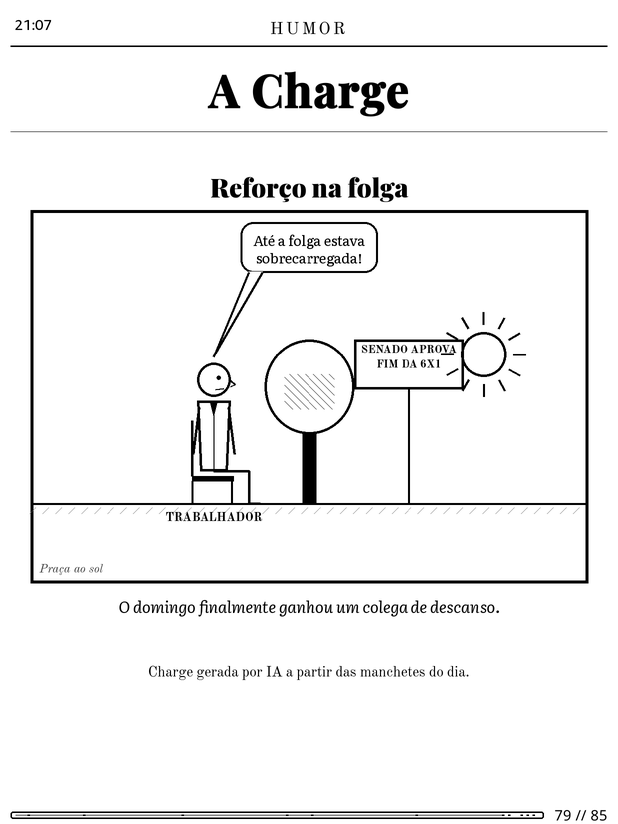
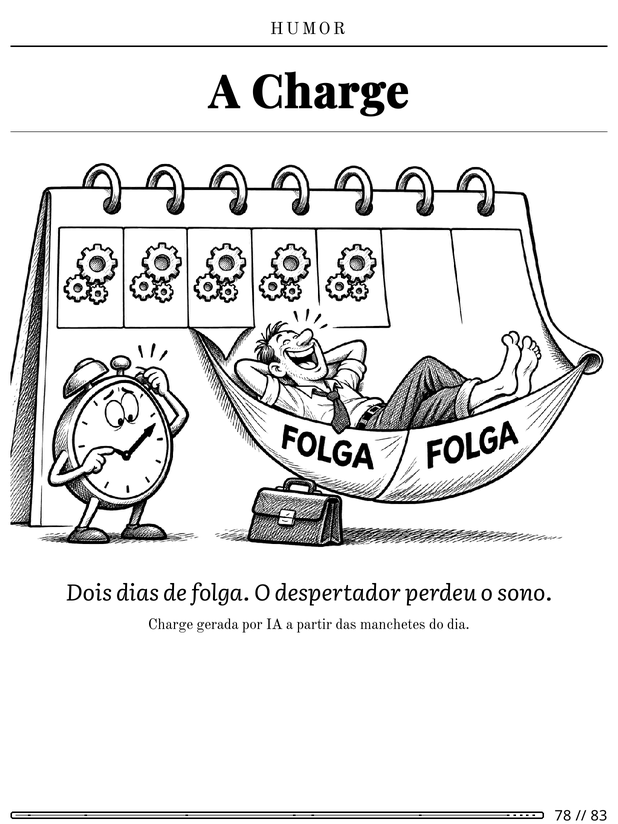
feat(charge): illustrated cartoons through an image capable CLI (Codex) or image API, redo cartoon per edition

Changed region(s): [[0.0, 0.182, 0.9838, 0.8192], [0.8916, 0.9709, 0.9223, 1.0]]

diff --git a/frontend/src/pages/AI.tsx b/frontend/src/pages/AI.tsx
@@ -4,7 +4,7 @@ import { Empty, Field, Loading, Modal, SectionTitle, Stamp, useAction, useLoad }
 
 const PRESETS: Record<string, Partial<AIProvider> & { label: string }> = {
   claude_cli: { label: "Claude Code (CLI)", name: "Claude CLI", kind: "cli", command: "claude -p --model claude-haiku-5-5 --output-format text" },
-  codex_cli: { label: "Codex (CLI)", name: "Codex CLI", kind: "cli", command: "codex exec --skip-git-repo-check -s read-only --ephemeral -C /tmp -" },
+  codex_cli: { label: "Codex (CLI)", name: "Codex CLI", kind: "cli", command: "codex exec --skip-git-repo-check -s read-only --ephemeral -C /tmp -", image_command: "codex exec --skip-git-repo-check -s workspace-write --ephemeral -" },
   anthropic: { label: "Anthropic API", name: "Anthropic", kind: "anthropic", model: "claude-haiku-5-5" },
   openai: { label: "OpenAI API", name: "OpenAI", kind: "openai", base_url: "https://api.openai.com/v1", model: "gpt-5-mini", image_model: "gpt-image-1" },
   ollama: { label: "Ollama (local)", name: "Ollama", kind: "openai", base_url: "http://localhost:11434/v1", model: "llama3.2" },
@@ -14,14 +14,14 @@ const PRESETS: Record<string, Partial<AIProvider> & { label: string }> = {
 function AIForm({ initial, onSubmit }: { initial?: Partial<AIProvider>; onSubmit: (b: Record<string, unknown>) => void }) {
   const [f, setF] = useState({
     name: initial?.name ?? "", kind: initial?.kind ?? "cli", base_url: initial?.base_url ?? "", model: initial?.model ?? "",
-    api_key: "", command: initial?.command ?? "", image_model: initial?.image_model ?? "",
+    api_key: "", command: initial?.command ?? "", image_model: initial?.image_model ?? "", image_command: initial?.image_command ?? "",
     max_tokens: initial?.max_tokens ?? 1500, timeout_s: initial?.timeout_s ?? 120,
   });
   const set = (k: string, v: unknown) => setF((p) => ({ ...p, [k]: v }));
   return (
     <form onSubmit={(e) => {
       e.preventDefault();
-      onSubmit({ ...f, base_url: f.base_url || null, model: f.model || null, api_key: f.api_key || null, command: f.command || null, image_model: f.image_model || null });
+      onSubmit({ ...f, base_url: f.base_url || null, model: f.model || null, api_key: f.api_key || null, command: f.command || null, image_model: f.image_model || null, image_command: f.image_command || null });
     }}>
       {!initial?.id && (
         <div className="row" style={{ marginBottom: 14 }}>
@@ -54,6 +54,9 @@ function AIForm({ initial, onSubmit }: { initial?: Partial<AIProvider>; onSubmit
           {f.kind === "openai" && <Field label="Modelo de imagem (charge ilustrada)" hint="opcional"><input type="text" value={f.image_model} onChange={(e) => set("image_model", e.target.value)} /></Field>}
         </div>
       )}
+      <Field label="Comando de imagem (charge ilustrada, opcional)" hint="CLI capaz de gerar imagens (ex.: Codex com sua conta ChatGPT). Roda numa pasta temporária e deve salvar um PNG nela.">
+        <input type="text" value={f.image_command} onChange={(e) => set("image_command", e.target.value)} />
+      </Field>
       <div className="grid cols-2" style={{ gap: 14 }}>
         <Field label="Máx. tokens por resposta"><input type="number" min={100} max={16000} value={f.max_tokens} onChange={(e) => set("max_tokens", Number(e.target.value))} /></Field>
         <Field label="Tempo limite (s)"><input type="number" min={10} max={900} value={f.timeout_s} onChange={(e) => set("timeout_s", Number(e.target.value))} /></Field>
@@ -89,7 +92,7 @@ export default function AI() {
               <tr key={p.id}>
                 <td><span className="name">{p.name}</span> {p.is_active && <Stamp status="ok" label="ativa" />}</td>
                 <td className="small">{p.kind}</td>
-                <td className="small"><code>{p.kind === "cli" ? p.command : `${p.model ?? ""} ${p.base_url ? "@ " + p.base_url : ""}`}</code>{p.can_generate_images && <div className="muted">imagens: {p.image_model}</div>}</td>
+                <td className="small"><code>{p.kind === "cli" ? p.command : `${p.model ?? ""} ${p.base_url ? "@ " + p.base_url : ""}`}</code>{p.can_generate_images && <div className="muted">imagens: {p.image_command ? "via CLI" : p.image_model}</div>}</td>
                 <td className="small">{p.last_test_ok === null ? <span className="muted">não testada</span> : <><Stamp status={p.last_test_ok ? "ok" : "bad"} label={p.last_test_ok ? "ok" : "falhou"} /> <span className="muted">{p.last_test_message}</span></>}</td>
                 <td style={{ whiteSpace: "nowrap" }}>
                   <button className="btn small" disabled={busy} onClick={() => run(() => post(`/api/ai/providers/${p.id}/test`)).then(reload)}>{busy ? "Testando…" : "Testar"}</button>{" "}

diff --git a/frontend/src/pages/EditionDetail.tsx b/frontend/src/pages/EditionDetail.tsx
@@ -17,7 +17,7 @@ type Detail = EditionSummary & {
 export default function EditionDetail() {
   const { id } = useParams();
   const nav = useNavigate();
-  const { run } = useAction();
+  const { run, busy } = useAction();
   const { data, reload } = useLoad(() => get<Detail>(`/api/editions/${id}`), [id]);
   if (!data) return <Loading />;
   const sections = new Map<string, Detail["articles"]>();
@@ -30,6 +30,7 @@ export default function EditionDetail() {
     <div>
       <SectionTitle kicker={`Edição nº ${data.number} · ${new Date(data.date + "T12:00").toLocaleDateString("pt-BR", { dateStyle: "full" })}`} title={data.headline ?? data.title}>
         {data.epub_url && <a className="btn primary" href={data.epub_url}>Baixar EPUB</a>}
+        <button className="btn" disabled={busy} onClick={() => run(() => post(`/api/editions/${data.id}/charge`), "Nova charge desenhada").then((r) => r && reload())}>{busy ? "Desenhando…" : "Refazer charge"}</button>
         <button className="btn" onClick={() => run(() => post(`/api/editions/${data.id}/retypeset`), "Edição recomposta com as configurações atuais").then((r) => r && reload())}>Recompor</button>
         <button className="btn danger" onClick={() => {
           if (confirm("Excluir esta edição e seus arquivos?")) run(() => del(`/api/editions/${data.id}`), "Edição excluída").then((r) => r && nav("/edicoes"));

diff --git a/frontend/src/pages/Newspaper.tsx b/frontend/src/pages/Newspaper.tsx
@@ -187,8 +187,8 @@ export default function Newspaper({ onTitle }: { onTitle: (t: string) => void })
             <legend>Charge</legend>
             <Field label="Modo">
               <select value={v.charge.mode} onChange={(e) => setV({ ...v, charge: { ...v.charge, mode: e.target.value as "structured" | "illustrated" } })}>
-                <option value="structured">Roteirizada: a IA escreve o roteiro e o servidor desenha</option>
-                <option value="illustrated">Ilustrada: gerador de imagem (exige modelo de imagem)</option>
+                <option value="illustrated">Ilustrada: gerador de imagem (Codex/ChatGPT ou API de imagem)</option>
+                <option value="structured">Roteirizada: traço simples desenhado pelo servidor (sem gerador de imagem)</option>
               </select>
             </Field>
             <Field label="Estilo / linha editorial"><textarea value={v.charge.style} onChange={(e) => setV({ ...v, charge: { ...v.charge, style: e.target.value } })} /></Field>

diff --git a/frontend/src/api.ts b/frontend/src/api.ts
@@ -100,7 +100,7 @@ export type Topic = { id: number; slug: string; name: string; keywords: string[]
 
 export type AIProvider = {
   id: number; name: string; kind: "openai" | "anthropic" | "cli"; base_url: string | null; model: string | null;
-  api_key_set: boolean; api_key_hint: string | null; command: string | null; image_model: string | null;
+  api_key_set: boolean; api_key_hint: string | null; command: string | null; image_model: string | null; image_command: string | null;
   max_tokens: number; timeout_s: number; is_active: boolean; last_test_ok: boolean | null; last_test_message: string | null;
   can_generate_images: boolean;
 };

diff --git a/backend/dayfold/charge/service.py b/backend/dayfold/charge/service.py
@@ -40,10 +40,14 @@ class _ImagePrompt(BaseModel):
     caption: str = Field(max_length=200)
 
 
-IMAGE_PROMPT = """Escreva um prompt em inglês para um gerador de imagens criar uma charge
-editorial de painel único, em preto e branco, traço de nanquim, estilo jornal clássico,
-sobre a notícia mais relevante abaixo. Estilo: {style}. Sem texto dentro da imagem e sem
-pessoas reais reconhecíveis. Também escreva uma legenda curta em {language}.
+IMAGE_PROMPT = """Você é chargista de um jornal clássico. Escolha a notícia mais relevante abaixo e
+crie a ideia de uma charge editorial de painel único, com uma piada visual clara.
+Escreva um prompt detalhado em inglês para um gerador de imagens: ilustração em preto e branco,
+traço de nanquim com hachuras, estilo charge de jornal impresso, alto contraste (vai para tela
+e-ink), cena e personagens descritos com precisão, expressões exageradas. Textos dentro da imagem
+só se forem essenciais, curtos e em {language} (placas, rótulos), escritos corretamente.
+Sem pessoas reais reconhecíveis e sem logotipos. Estilo editorial: {style}
+Também escreva uma legenda curta e espirituosa em {language} para ir abaixo da charge.
 Responda com JSON: {{"prompt": "...", "caption": "..."}}
 
 Manchetes:
@@ -64,16 +68,16 @@ def generate_charge(session: Session, headlines: list[str], newspaper_title: str
         if settings.mode == "illustrated" and ai.can_generate_images:
             ip = ai.complete_json(IMAGE_PROMPT.format(style=settings.style, language=lang,
                                                       headlines=lines), _ImagePrompt, max_tokens=500)
-            log("Gerando charge ilustrada...")
+            log("Gerando charge ilustrada (pode levar 1 a 2 minutos)...")
             raw = ai.generate_image(ip.prompt)
             img = Image.open(io.BytesIO(raw)).convert("L")
-            img = ImageOps.autocontrast(img, cutoff=1)
-            img.thumbnail((1200, 1200))
+            img = ImageOps.autocontrast(img, cutoff=0.5)
+            img.thumbnail((1400, 1400), Image.LANCZOS)
             to_eink_png(img, dest)
             return {"mode": "illustrated", "image_path": str(dest), "caption": ip.caption,
                     "script": {"prompt": ip.prompt}}
         if settings.mode == "illustrated":
-            log("Modo ilustrado pede uma IA com modelo de imagem: usando modo estruturado.")
+            log("A IA ativa não gera imagens: usando a charge roteirizada.")
         script = ai.complete_json(
             SCRIPT_PROMPT.format(title=newspaper_title, style=settings.style, language=lang,
                                  headlines=lines),

diff --git a/backend/dayfold/ai/client.py b/backend/dayfold/ai/client.py
@@ -162,11 +162,13 @@ class AIClient:
     # -- images -------------------------------------------------------------
     @property
     def can_generate_images(self) -> bool:
-        return self.p.kind == "openai" and bool(self.p.image_model)
+        return bool(self.p.image_command) or (self.p.kind == "openai" and bool(self.p.image_model))
 
-    def generate_image(self, prompt: str, size: str = "1024x1024") -> bytes:
+    def generate_image(self, prompt: str, size: str = "1536x1024") -> bytes:
         if not self.can_generate_images:
             raise AIError("este provedor de IA não gera imagens")
+        if self.p.image_command:
+            return _cli_image(self, prompt)
         base = (self.p.base_url or "https://api.openai.com/v1").rstrip("/")
         headers = {"Authorization": f"Bearer {self.p.api_key}"} if self.p.api_key else {}
         r = httpx.post(
@@ -182,6 +184,35 @@ class AIClient:
         if data.get("url"):
             return httpx.get(data["url"], timeout=60).content
         raise AIError("resposta de imagem vazia")
+
+
+IMAGE_CLI_PROMPT = """Use your image generation tool to create this image:
+
+{prompt}
+
+Landscape format. Save the final image as charge.png in the current directory and reply only
+with the file name. Do not create any other file."""
+
+
+def _cli_image(self: AIClient, prompt: str) -> bytes:
+    import tempfile
+    from pathlib import Path
+
+    argv = shlex.split(self.p.image_command or "")
+    with tempfile.TemporaryDirectory(prefix="dayfold-img-") as tmp:
+        try:
+            proc = subprocess.run(argv, input=IMAGE_CLI_PROMPT.format(prompt=prompt), cwd=tmp,
+                                  capture_output=True, text=True, timeout=max(self.p.timeout_s, 420))
+        except FileNotFoundError as exc:
+            raise AIError(f"comando não encontrado: {argv[0] if argv else '?'}") from exc
+        except subprocess.TimeoutExpired as exc:
+            raise AIError("a geração de imagem passou do tempo limite") from exc
+        images = sorted((p for p in Path(tmp).rglob("*") if p.suffix.lower() in (".png", ".jpg", ".jpeg", ".webp")),
+                        key=lambda p: p.stat().st_size, reverse=True)
+        if not images:
+            raise AIError(f"a CLI não gerou imagem (código {proc.returncode}): {proc.stderr[-300:]}")
+        return images[0].read_bytes()
+
 
 
 def active_client(session: Session) -> AIClient | None:

diff --git a/backend/dayfold/api/editions.py b/backend/dayfold/api/editions.py
@@ -111,6 +111,35 @@ def retypeset_edition(eid: int, session: Session = Depends(get_session)) -> dict
     return edition_summary(_edition(session, eid))
 
 
+@router.post("/editions/{eid}/charge")
+def redo_charge(eid: int, session: Session = Depends(get_session)) -> dict:
+    """Draw a new cartoon for an edition with the current charge settings, then re-typeset."""
+    from ..charge.service import generate_charge
+    from ..models import ChargeAsset, JobStatus
+    from ..pipeline.generate import edition_dir, retypeset
+    from ..settings import get_section
+
+    e = _edition(session, eid)
+    news = get_section(session, "newspaper")
+    titles = [it.article.title for it in sorted(e.items, key=lambda i: i.position)]
+    logs: list[str] = []
+    out = edition_dir(e.edition_date, e.number)
+    out.mkdir(parents=True, exist_ok=True)
+    result = generate_charge(session, titles, news.title, news.language, get_section(session, "charge"),
+                             out, logs.append)
+    if not result:
+        raise HTTPException(400, "; ".join(logs) or "não foi possível gerar a charge")
+    if e.charge:
+        session.delete(e.charge)
+        session.flush()
+    session.add(ChargeAsset(edition_id=e.id, mode=result["mode"], status=JobStatus.SUCCEEDED,
+                            script=result["script"], image_path=result["image_path"], caption=result["caption"]))
+    session.commit()
+    retypeset(eid)
+    session.expire_all()
+    return {"logs": logs, **edition_summary(_edition(session, eid))}
+
+
 @router.delete("/editions/{eid}")
 def delete_edition(eid: int, session: Session = Depends(get_session)) -> dict:
     e = _edition(session, eid)

diff --git a/backend/dayfold/api/admin.py b/backend/dayfold/api/admin.py
@@ -193,6 +193,7 @@ class AIIn(BaseModel):
     api_key: str | None = None
     command: str | None = None
     image_model: str | None = None
+    image_command: str | None = None
     max_tokens: int = Field(1500, ge=100, le=16000)
     timeout_s: int = Field(120, ge=10, le=900)
 
@@ -202,7 +203,7 @@ def ai_out(p: AIProvider) -> dict:
     return {
         "id": p.id, "name": p.name, "kind": p.kind, "base_url": p.base_url, "model": p.model,
         "api_key_set": bool(key), "api_key_hint": f"…{key[-4:]}" if len(key) > 8 else None,
-        "command": p.command, "image_model": p.image_model, "max_tokens": p.max_tokens,
+        "command": p.command, "image_model": p.image_model, "image_command": p.image_command, "max_tokens": p.max_tokens,
         "timeout_s": p.timeout_s, "is_active": p.is_active, "last_test_ok": p.last_test_ok,
         "last_test_message": p.last_test_message, "can_generate_images": AIClient(p).can_generate_images,
     }

diff --git a/backend/dayfold/db.py b/backend/dayfold/db.py
@@ -72,4 +72,20 @@ def get_session() -> Iterator[Session]:
 def init_db() -> None:
     from . import models  # noqa: F401  (register tables)
 
-    Base.metadata.create_all(get_engine())
+    engine = get_engine()
+    Base.metadata.create_all(engine)
+    _add_missing_columns(engine)
+
+
+def _add_missing_columns(engine: Engine) -> None:
+    """Tiny forward migration: add nullable columns introduced after a database was created."""
+    from sqlalchemy import inspect, text
+
+    insp = inspect(engine)
+    with engine.begin() as conn:
+        for table in Base.metadata.sorted_tables:
+            existing = {c["name"] for c in insp.get_columns(table.name)}
+            for col in table.columns:
+                if col.name not in existing and col.nullable:
+                    conn.execute(text(f'ALTER TABLE {table.name} ADD COLUMN "{col.name}" '
+                                      f"{col.type.compile(engine.dialect)}"))

diff --git a/backend/dayfold/models.py b/backend/dayfold/models.py
@@ -68,6 +68,9 @@ class AIProvider(Base):
     api_key: Mapped[str | None] = mapped_column(String(400), nullable=True)
     command: Mapped[str | None] = mapped_column(String(400), nullable=True)
     image_model: Mapped[str | None] = mapped_column(String(120), nullable=True)
+    # CLI agent that can draw (e.g. Codex with image generation): runs in a temp dir and must
+    # leave an image file there.
+    image_command: Mapped[str | None] = mapped_column(String(400), nullable=True)
     max_tokens: Mapped[int] = mapped_column(Integer, default=1500)
     timeout_s: Mapped[int] = mapped_column(Integer, default=120)
     is_active: Mapped[bool] = mapped_column(Boolean, default=False)

diff --git a/backend/dayfold/settings.py b/backend/dayfold/settings.py
@@ -135,7 +135,9 @@ class CurationSettings(BaseModel):
 
 
 class ChargeSettings(BaseModel):
-    mode: Literal["structured", "illustrated"] = "structured"
+    # illustrated = real illustration from an image model (falls back to structured when the
+    # active AI cannot draw); structured = AI script drawn by the server as simple line art.
+    mode: Literal["structured", "illustrated"] = "illustrated"
     style: str = Field(
         "Charge editorial elegante, bem-humorada e respeitosa, sem ataques pessoais.",
         max_length=400,

diff --git a/README.md b/README.md
@@ -38,8 +38,10 @@ downloads one file a day and reads it offline.
 * **Optional AI** (OpenAI compatible APIs, Ollama, Anthropic, or a local CLI such as Claude Code or Codex) for:
   editorial selection over pre-filtered candidates, the daily cartoon, and AI assisted scraper generation.
   Everything else keeps working without it.
-* **Daily cartoon** (needs AI): the model writes a short script and the server draws it as clean
-  line art, or an image model draws it.
+* **Daily cartoon** (needs AI): the model picks the story and writes the gag, and an image model
+  draws a newspaper style ink illustration. Works with Codex CLI (image generation with your
+  ChatGPT account, no API key) or any OpenAI compatible image API. Without an image model it
+  falls back to a simple line drawing rendered by the server.
 * **Games** prepared on the server: Sudoku (unique solution), Word of the Day (Wordle style) and
   Word Search (themes or words from the day's headlines), in Portuguese or English.
 * **KOReader plugin**: sync over Wi-Fi, interactive games with saved progress, and a continuous
@@ -118,7 +120,9 @@ cd backend && uv run dayfold retypeset 12   # re-typeset edition 12 with the cur
 4. **Scrapers**: every version with its state (`PENDING`, `GENERATING`, `TESTING`, `READY`,
    `FAILED`, `DISABLED`). A new version replaces the active one only after it passes its test.
 5. **IA**: add a provider, test it, activate it. Presets for Claude Code CLI, Codex CLI,
-   Anthropic, OpenAI, Ollama and OpenRouter.
+   Anthropic, OpenAI, Ollama and OpenRouter. For illustrated cartoons, set an image model (API) or an
+   image command (CLI agent that can draw, e.g. `codex exec --skip-git-repo-check -s workspace-write --ephemeral -`).
+   Each edition page has **Refazer charge** to draw a new cartoon and **Recompor** to re-typeset.
 6. **Jogos**: enable, order and configure Sudoku, Word of the Day and Word Search, with previews.
 7. **Registros**: every generation with its steps and log. **Gerar jornal agora** works from the
    overview or from here.
@@ -160,8 +164,9 @@ over USB, the sleep screen cover and troubleshooting, is in [docs/KINDLE.md](doc
   Kindle. Without a jailbreak, use another e-reader with KOReader (Kobo, PocketBook) or any EPUB app.
 * **Scrapers** depend on the sites. Feeds are stable; selector scrapers break when a site changes,
   which is why versions, tests and rollback exist.
-* **Cartoons** in structured mode are simple line drawings with a limited set of poses and props;
-  illustrated mode needs an image capable API.
+* **Cartoons** look like real illustrations only in illustrated mode, which needs an image capable
+  AI (Codex CLI with image generation, or an image API) and takes one to two minutes. The fallback
+  structured mode is a simple line drawing with a limited set of poses and props.
 * Single user. The dashboard has one optional password, and feeds use a single token.
 
 ## Architecture
